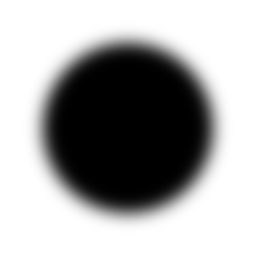
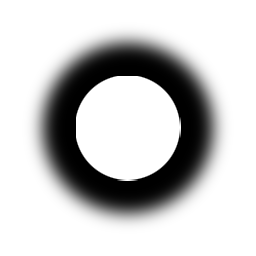
update pie chart

Changed region(s): [[0.2812, 0.2812, 0.7188, 0.7188]]

diff --git a/WordTotalFrequency/Views/Pitchart/ModelBuilder.c b/WordTotalFrequency/Views/Pitchart/ModelBuilder.c
@@ -51,8 +51,8 @@ void buildModel(){
         pieVertices[i].Position[0]     = 0;
         pieVertices[i].Position[1]     = 0.6;
         pieVertices[i].Position[2]     = 0;
-        pieVertices[i].Color[0]        = color[i].r+.1;
-        pieVertices[i].Color[1]        = color[i].g+.1;
+        pieVertices[i].Color[0]        = color[i].r*.2;
+        pieVertices[i].Color[1]        = powf(color[i].g,.4)+.2;
         pieVertices[i].Color[2]        = color[i].b;
         pieVertices[i].Color[3]        = color[i].a;
         pieVertices[i].Normal[0]       = 0.0;
@@ -87,11 +87,11 @@ void buildModel(){
             float sinAng        = sinf(ang);
             float cosAng        = cosf(ang);
             
-            int trianglePoint   = divideCount*5+PARTNUM;
+            int trianglePoint   = divideCount*7+PARTNUM;
             if(partStartValue==thisDivideValue){
                 makeADivide(trianglePoint,ang,sinAng,cosAng,i,divideCount,1,1);
                 divideCount ++;
-                trianglePoint   = divideCount*5+PARTNUM;
+                trianglePoint   = divideCount*7+PARTNUM;
                 thisDivideValue += breakStep;
                 ang             = PI2*thisDivideValue;
                 sinAng          = sinf(ang);
@@ -113,7 +113,7 @@ void buildModel(){
         float ang           = PI2*partEndValue;
         float sinAng        = sinf(ang);
         float cosAng        = cosf(ang);
-        int trianglePoint   = divideCount*5+PARTNUM;
+        int trianglePoint   = divideCount*7+PARTNUM;
         makeADivide(trianglePoint,ang,sinAng,cosAng,i,divideCount,-1,0);
         divideCount ++;
     }
@@ -197,12 +197,12 @@ void makeADivide(int trianglePoint,float ang,float sinAng, float cosAng,int part
     rndColor.b  = color[partId].b;
     rndColor.a  = color[partId].a;
     
-    pieVertices[trianglePoint].Position[0]     = sinAng*r*partCompleteValue[partId];
+    pieVertices[trianglePoint].Position[0]     = sinAng*r*partMarkedGreenValue[partId];
     pieVertices[trianglePoint].Position[1]     = h;
-    pieVertices[trianglePoint].Position[2]     = cosAng*r*partCompleteValue[partId];
+    pieVertices[trianglePoint].Position[2]     = cosAng*r*partMarkedGreenValue[partId];
     
-    pieVertices[trianglePoint].Color[0]        = rndColor.r+.1;
-    pieVertices[trianglePoint].Color[1]        = rndColor.g+.1;
+    pieVertices[trianglePoint].Color[0]        = rndColor.r*.2;
+    pieVertices[trianglePoint].Color[1]        = powf(rndColor.g,.4)+.2;
     pieVertices[trianglePoint].Color[2]        = rndColor.b;
     pieVertices[trianglePoint].Color[3]        = rndColor.a;
     if(dividetype==0){
@@ -220,9 +220,56 @@ void makeADivide(int trianglePoint,float ang,float sinAng, float cosAng,int part
     
     trianglePoint+=1;
     
-    pieVertices[trianglePoint].Position[0]     = sinAng*r*partCompleteValue[partId];
+    
+    pieVertices[trianglePoint].Position[0]     = sinAng*r*partMarkedGreenValue[partId];
     pieVertices[trianglePoint].Position[1]     = h;
-    pieVertices[trianglePoint].Position[2]     = cosAng*r*partCompleteValue[partId];
+    pieVertices[trianglePoint].Position[2]     = cosAng*r*partMarkedGreenValue[partId];
+    
+    pieVertices[trianglePoint].Color[0]        = rndColor.r*.7;
+    pieVertices[trianglePoint].Color[1]        = powf(rndColor.g,.5)+.1;
+    pieVertices[trianglePoint].Color[2]        = rndColor.b;
+    pieVertices[trianglePoint].Color[3]        = rndColor.a;
+    if(dividetype==0){
+        pieVertices[trianglePoint].Normal[0]       = 0.0;
+        pieVertices[trianglePoint].Normal[1]       = 1.0;
+        pieVertices[trianglePoint].Normal[2]       = 0.0;
+    }else{
+        pieVertices[trianglePoint].Normal[0]       = sinAng;
+        pieVertices[trianglePoint].Normal[1]       = 1.0;
+        pieVertices[trianglePoint].Normal[2]       = cosAng;
+    }
+    pieVertices[trianglePoint].TexCoord[0]     = sinAng;
+    pieVertices[trianglePoint].TexCoord[1]     = cosAng;
+    
+    
+    trianglePoint+=1;
+    
+    pieVertices[trianglePoint].Position[0]     = sinAng*r*(partMarkedGreenValue[partId]+partMarkedYellowValue[partId]);
+    pieVertices[trianglePoint].Position[1]     = h;
+    pieVertices[trianglePoint].Position[2]     = cosAng*r*(partMarkedGreenValue[partId]+partMarkedYellowValue[partId]);
+    
+    pieVertices[trianglePoint].Color[0]        = rndColor.r*.7;
+    pieVertices[trianglePoint].Color[1]        = powf(rndColor.g,.5)+.1;
+    pieVertices[trianglePoint].Color[2]        = rndColor.b;
+    pieVertices[trianglePoint].Color[3]        = rndColor.a;
+    if(dividetype==0){
+        pieVertices[trianglePoint].Normal[0]       = 0.0;
+        pieVertices[trianglePoint].Normal[1]       = 1.0;
+        pieVertices[trianglePoint].Normal[2]       = 0.0;
+    }else{
+        pieVertices[trianglePoint].Normal[0]       = sinAng;
+        pieVertices[trianglePoint].Normal[1]       = 1.0;
+        pieVertices[trianglePoint].Normal[2]       = cosAng;
+    }
+    pieVertices[trianglePoint].TexCoord[0]     = sinAng;
+    pieVertices[trianglePoint].TexCoord[1]     = cosAng;
+    
+    
+    trianglePoint+=1;
+    
+    pieVertices[trianglePoint].Position[0]     = sinAng*r*(partMarkedGreenValue[partId]+partMarkedYellowValue[partId]);
+    pieVertices[trianglePoint].Position[1]     = h;
+    pieVertices[trianglePoint].Position[2]     = cosAng*r*(partMarkedGreenValue[partId]+partMarkedYellowValue[partId]);
     
     pieVertices[trianglePoint].Color[0]        = rndColor.r;
     pieVertices[trianglePoint].Color[1]        = rndColor.g;
@@ -239,7 +286,6 @@ void makeADivide(int trianglePoint,float ang,float sinAng, float cosAng,int part
     }
     pieVertices[trianglePoint].TexCoord[0]     = sinAng;
     pieVertices[trianglePoint].TexCoord[1]     = cosAng;
-    
     
     
     trianglePoint+=1;
@@ -332,36 +378,44 @@ void makeADivide(int trianglePoint,float ang,float sinAng, float cosAng,int part
     pieVertices[trianglePoint].TexCoord[1]     = cosAng;
     
     if(isMakeTriangle){
-        trianglePoint-=4;
-    int id  =divideCount*21;
+        trianglePoint-=6;
+    int id  =divideCount*27;
     
     pieIndices[id]     = partId;
     pieIndices[id+1]   = trianglePoint;
-    pieIndices[id+2]   = trianglePoint+5;
+    pieIndices[id+2]   = trianglePoint+7;
     
     pieIndices[id+3]   = trianglePoint+1;
     pieIndices[id+4]   = trianglePoint+2;
-    pieIndices[id+5]   = trianglePoint+7;
+    pieIndices[id+5]   = trianglePoint+9;
     
     pieIndices[id+6]   = trianglePoint+1;
-    pieIndices[id+7]   = trianglePoint+7;
-    pieIndices[id+8]   = trianglePoint+6;
+    pieIndices[id+7]   = trianglePoint+9;
+    pieIndices[id+8]   = trianglePoint+8;
     
-    pieIndices[id+9]   = trianglePoint+2;
-    pieIndices[id+10]  = trianglePoint+3;
-    pieIndices[id+11]  = trianglePoint+8;
+    pieIndices[id+9]   = trianglePoint+3;
+    pieIndices[id+10]  = trianglePoint+4;
+    pieIndices[id+11]  = trianglePoint+11;
     
-    pieIndices[id+12]  = trianglePoint+2;
-    pieIndices[id+13]  = trianglePoint+8;
-    pieIndices[id+14]  = trianglePoint+7;
+    pieIndices[id+12]  = trianglePoint+3;
+    pieIndices[id+13]  = trianglePoint+10;
+    pieIndices[id+14]  = trianglePoint+11;
         
-    pieIndices[id+15]  = trianglePoint+3;
-    pieIndices[id+16]  = trianglePoint+4;
-    pieIndices[id+17]  = trianglePoint+9;
+    pieIndices[id+15]  = trianglePoint+4;
+    pieIndices[id+16]  = trianglePoint+5;
+    pieIndices[id+17]  = trianglePoint+12;
         
-    pieIndices[id+18]  = trianglePoint+3;
-    pieIndices[id+19]  = trianglePoint+9;
-    pieIndices[id+20]  = trianglePoint+8;
+    pieIndices[id+18]  = trianglePoint+4;
+    pieIndices[id+19]  = trianglePoint+12;
+    pieIndices[id+20]  = trianglePoint+11;
+        
+    pieIndices[id+21]  = trianglePoint+5;
+    pieIndices[id+22]  = trianglePoint+6;
+    pieIndices[id+23]  = trianglePoint+13;
+        
+    pieIndices[id+24]  = trianglePoint+5;
+    pieIndices[id+25]  = trianglePoint+13;
+    pieIndices[id+26]  = trianglePoint+12;
     }
     divideCountInPart++;
 }

diff --git a/WordTotalFrequency/Controllers/DashboardController.m b/WordTotalFrequency/Controllers/DashboardController.m
@@ -3,7 +3,7 @@
 //  WordTotalFrequency
 //
 //  Created by OCS on 11-7-21.
-//  Copyright 2011Âπ¥ __MyCompanyName__. All rights reserved.
+//  Copyright 2011年 __MyCompanyName__. All rights reserved.
 //
 
 #import "DataUtil.h"
@@ -104,7 +104,8 @@
     
     // setup pie chart
     float pieValue[] = {0.2, 0.2, 0.2, 0.2, 0.2};
-    float pieCompleteValue[] = {0.4, 0.5, 0.5, 0.6, 0.2};
+    float pieGreenValue[] = {0.4, 0.5, 0.5, 0.6, 0.2};
+    float pieYellowValue[] = {0.1, 0.25, 0.25, 0.2, 0.12};
     for (int i=0; i<5; i++) {
         UIImageView *pieLabel = (UIImageView *)[self.view viewWithTag:PIE_LABEL_TAG_BASE+i];
         UILabel *label = (UILabel *)[pieLabel.subviews objectAtIndex:0];
@@ -112,7 +113,7 @@
         
         //pieValue[i] = [[_wordSets objectAtIndex:i] totalWordCount] * 1.0 / totalOfAllSets;
     }
-    [_pieView setupPartData:pieValue :pieCompleteValue];
+    [_pieView setupPartData:pieValue : pieGreenValue : pieYellowValue];
 }
 
 - (void)dismissSearchResult:(BOOL)animated
@@ -201,7 +202,7 @@
 	int topWindow = [allWindows count] - 1;
 	UIWindow *keyboardWindow = [allWindows objectAtIndex:topWindow];
     [keyboardWindow addSubview:self.collapseButton];
-    
+
     [UIView transitionWithView:self.collapseButton duration:0.2
                        options:UIViewAnimationOptionCurveLinear
                     animations:^ {
@@ -266,7 +267,7 @@
     _briefView = [[BriefView alloc] 
                   initWithFrame:CGRectMake(10, 20, CGRectGetWidth([UIScreen mainScreen].applicationFrame)-20, 100)];
     [_barContainer addSubview:_briefView];
-    
+
     
     // word set brief
     _wordSetBrief = [[WordSetBriefView alloc]

diff --git a/WordTotalFrequency/Views/WordTestView.m b/WordTotalFrequency/Views/WordTestView.m
@@ -47,12 +47,6 @@
     else{
         _paperView = [[WordPaperView alloc] initWithFrame:_containerView.bounds];
         _paperView.backgroundColor = [UIColor whiteColor];
-        
-        UIImage *congratulation = [UIImage imageNamed:@"test-finished"];
-        UIImageView *view = [[UIImageView alloc] initWithImage:congratulation];
-        view.frame = CGRectMake(30, 0, congratulation.size.width, congratulation.size.height);
-        [_paperView addSubview:view];
-        [view release];
     }
 }
 
@@ -109,8 +103,6 @@
 
 - (void)swipeAction:(UISwipeGestureRecognizer *)recognizer
 {
-    if ([_wordSetController.testingWords count] == 0) return;
-    
     if (recognizer.direction == UISwipeGestureRecognizerDirectionLeft)
     {
         [self nextTestWord];

diff --git a/WordTotalFrequency/Controllers/WordDetailController.m b/WordTotalFrequency/Controllers/WordDetailController.m
@@ -193,7 +193,7 @@ typedef enum {
     view.wordDetailController = self;
     [_containerView addSubview:view];
     [view release];
-        
+    
     UISwipeGestureRecognizer *recognizer;
     recognizer = [[UISwipeGestureRecognizer alloc] initWithTarget:self action:@selector(swipeAction:)];
     recognizer.direction = UISwipeGestureRecognizerDirectionLeft;
@@ -326,7 +326,7 @@ typedef enum {
     label.text = [titles objectAtIndex:segmentIndex];
     [button addSubview:label];
     [label release];
-
+    
     if (location == CapLeft)
     {
         UIImageView *image = [[UIImageView alloc] initWithImage:[UIImage imageNamed:@"arrow-previous"]];

diff --git a/WordTotalFrequency/Views/Pitchart/OpenGLView.m b/WordTotalFrequency/Views/Pitchart/OpenGLView.m
@@ -35,12 +35,15 @@
     return self;
 }
 
--(void)setupPartData:(float *)partData :(float *)partCompleteData{
+-(void)setupPartData:(float *)partData :(float *)partGreenData :(float *)partYellowData{
     for (int i=0; i<PARTNUM; i++) {
         partValue[i]    = partData[i];
     }
     for (int i=0; i<PARTNUM; i++) {
-        partCompleteValue[i]    = partCompleteData[i];
+        partMarkedGreenValue[i]    = partGreenData[i];
+    }
+    for (int i=0; i<PARTNUM; i++) {
+        partMarkedYellowValue[i]    = partYellowData[i];
     }
     buildModel();
     [self setupVBOs];

diff --git a/WordTotalFrequency/Views/Pitchart/ModelBuilder.h b/WordTotalFrequency/Views/Pitchart/ModelBuilder.h
@@ -28,12 +28,13 @@ typedef struct {
     float TexCoord[2];
 } Vertex;
 
-Vertex pieVertices[(SUBDIVIDE+(PARTNUM-1)*4)*5+1+PARTNUM];
-GLshort pieIndices[(SUBDIVIDE+(PARTNUM-1)*4)*21];
+Vertex pieVertices[(SUBDIVIDE+(PARTNUM-1)*4)*7+1+PARTNUM];
+GLshort pieIndices[(SUBDIVIDE+(PARTNUM-1)*4)*27];
 //Vertex pieVertices[SUBDIVIDE*3+1+PARTNUM];
 //GLshort pieIndices[SUBDIVIDE*15];
 float partValue[PARTNUM];
-float partCompleteValue[PARTNUM];
+float partMarkedGreenValue[PARTNUM];
+float partMarkedYellowValue[PARTNUM];
 
 Vertex shadowVertices[4];
 GLshort shadowIndices[6];

diff --git a/WordTotalFrequency/Views/Pitchart/OpenGLView.h b/WordTotalFrequency/Views/Pitchart/OpenGLView.h
@@ -72,7 +72,7 @@
 - (void)setupTimer;
 - (void)destroyTimer;
 
-- (void)setupPartData:(float *)partData :(float *)partCompleteData;
+- (void)setupPartData:(float *)partData :(float *)partGreenData :(float *)partYellowData;
 
 - (void)setupVBOs;
 
